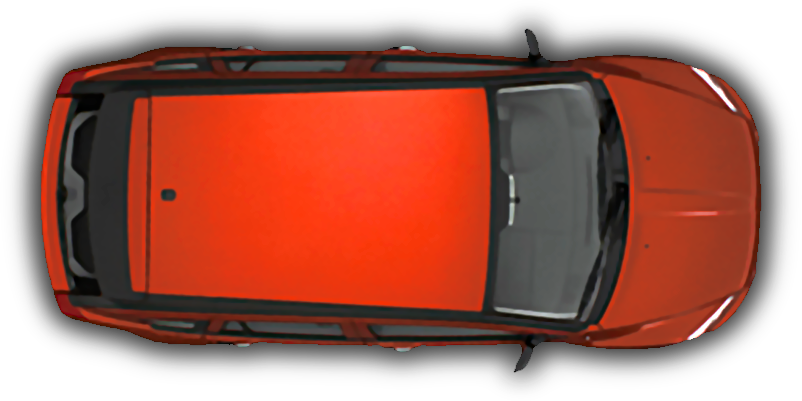
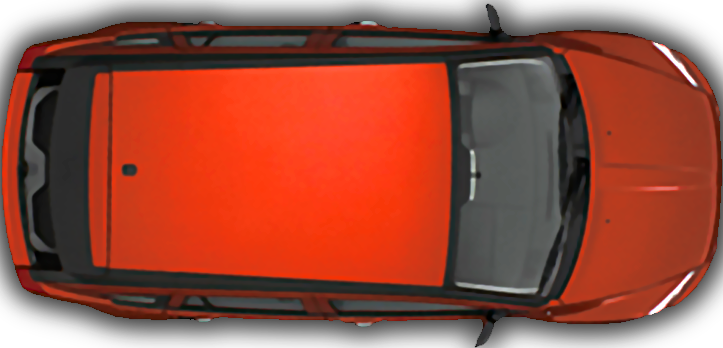
update sizes on car

diff --git a/index.html b/index.html
@@ -60,7 +60,6 @@
     .myCar {
       position: absolute;
       z-index: 100;
-      width: 200px;
       text-align: center;
     }
 
@@ -94,10 +93,10 @@
     <div class="whiteLine"></div>
     <div class="whiteLine"></div>
     <div id="mycar1" car_name="Araç 1" is_car="true" style="bottom: 41%;left: 5%;" class="animation myCar">
-      <img src="/white.png" height="140" width="200" alt="">
+      <img src="/white.png" width="250" alt="">
     </div>
     <div id="mycar2" car_name="Araç 2" is_car="true" style="bottom: 76%;left: 5%;" class="animation myCar">
-      <img src="/white.png" height="140" width="200" alt="">
+      <img src="/white.png" width="250" alt="">
 
     </div>
     <div class="otherCars" id="ways">
@@ -175,17 +174,17 @@
     speed = (speedMyCar1 + speedMyCar2) / 2
 
     if (event.key === 'ArrowRight') {
-      carPositionMYCAR1Bottom = carPositionMYCAR1Bottom - 1 * 5;
+      carPositionMYCAR1Bottom = carPositionMYCAR1Bottom - 1 * 10;
     }
     if (event.key === 'ArrowLeft') {
-      carPositionMYCAR1Bottom = carPositionMYCAR1Bottom + 1 * 5;
+      carPositionMYCAR1Bottom = carPositionMYCAR1Bottom + 1 * 10;
     }
 
     if (event.key === 'd' || event.key === 'D') {
-      carPositionMYCAR2Bottom = carPositionMYCAR2Bottom - 1 * 5;
+      carPositionMYCAR2Bottom = carPositionMYCAR2Bottom - 1 * 10;
     }
     if (event.key === 'a' || event.key === 'A') {
-      carPositionMYCAR2Bottom = carPositionMYCAR2Bottom + 1 * 5;
+      carPositionMYCAR2Bottom = carPositionMYCAR2Bottom + 1 * 10;
     }
 
     if (speed < 1) speed = 1;
@@ -243,7 +242,7 @@
 
     var randomID = (Math.random() * 1000).toFixed();
 
-    window.document.getElementById('ways').innerHTML += `<div car_name="Yoldan Geçen Araç" id="${randomID}" class="animation car" style="bottom: ${row}%; right: -25%;" is_car="true"><img src="/red.png" height="140" width="200" alt=""></div> `;
+    window.document.getElementById('ways').innerHTML += `<div car_name="Yoldan Geçen Araç" id="${randomID}" class="animation car" style="bottom: ${row}%; right: -25%;" is_car="true"><img src="/red.png" width="250" alt=""></div> `;
     moveCar(randomID, -25);
 
     setTimeout(() => {
